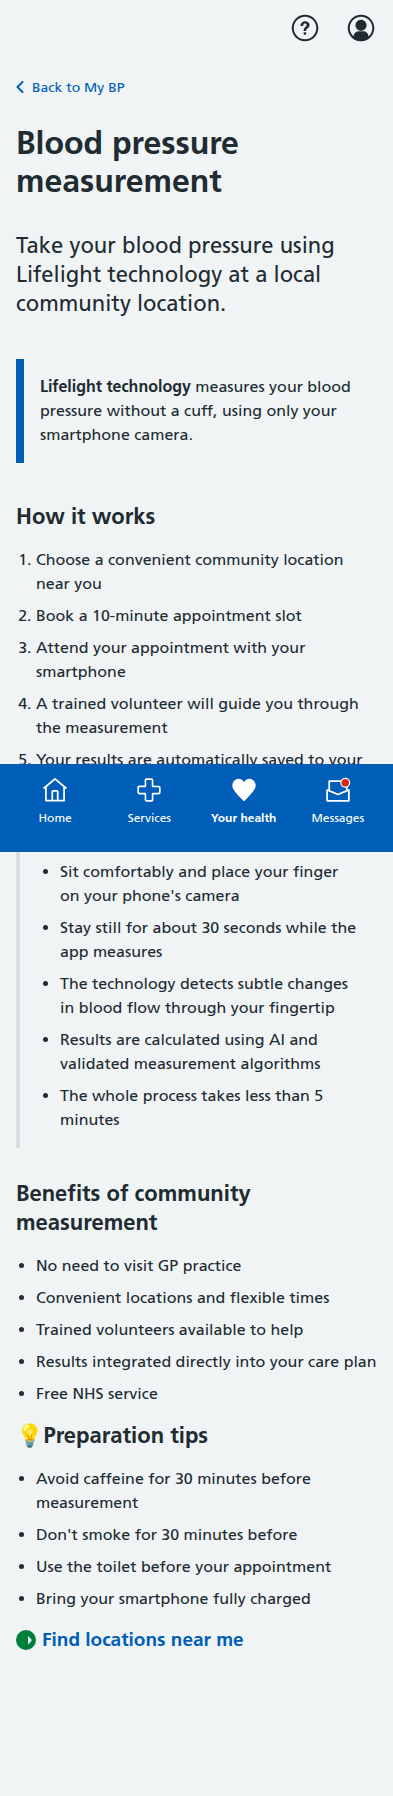
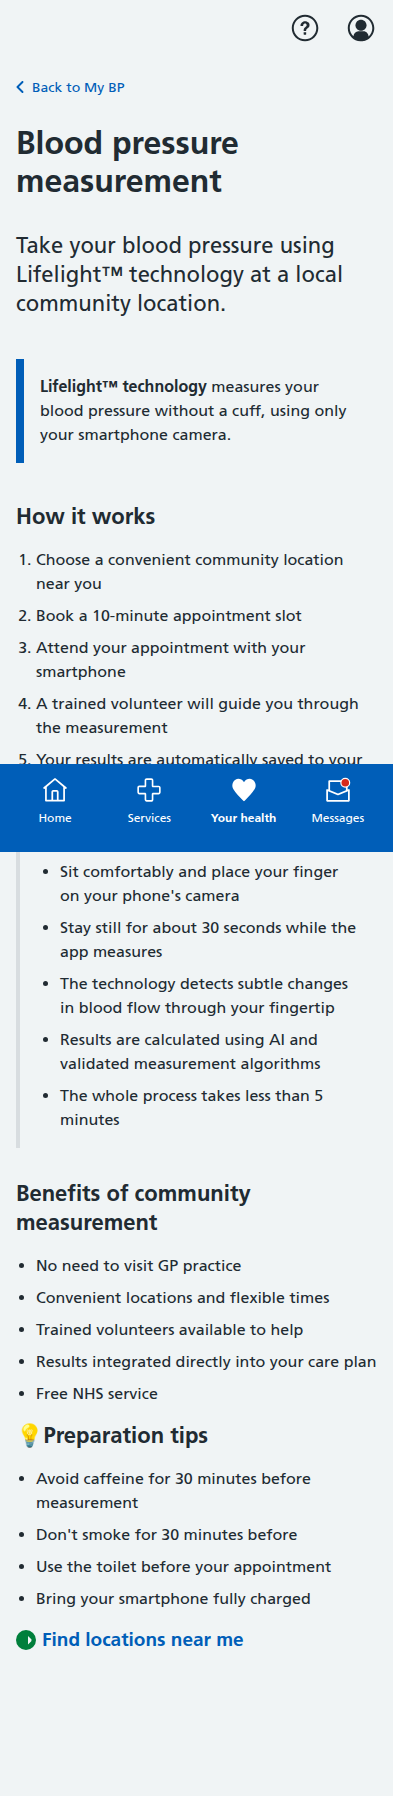
Address review feedback: add Lifelight™ trademark symbols and update screenshots

Changed region(s): [[0.0916, 0.1871, 0.8855, 0.2494], [0.2748, 0.1247, 0.855, 0.1559]]

diff --git a/prototype/v1/app/views/pages/mybp/bp-measurement/index.html b/prototype/v1/app/views/pages/mybp/bp-measurement/index.html
@@ -19,12 +19,12 @@
       </h1>
 
       <p class="nhsuk-lede-text">
-        Take your blood pressure using Lifelight technology at a local community location.
+        Take your blood pressure using Lifelight™ technology at a local community location.
       </p>
 
       <div class="nhsuk-inset-text">
         <span class="nhsuk-u-visually-hidden">Information: </span>
-        <p><strong>Lifelight technology</strong> measures your blood pressure without a cuff, using only your smartphone camera.</p>
+        <p><strong>Lifelight™ technology</strong> measures your blood pressure without a cuff, using only your smartphone camera.</p>
       </div>
 
       <h2 class="nhsuk-heading-m">How it works</h2>
